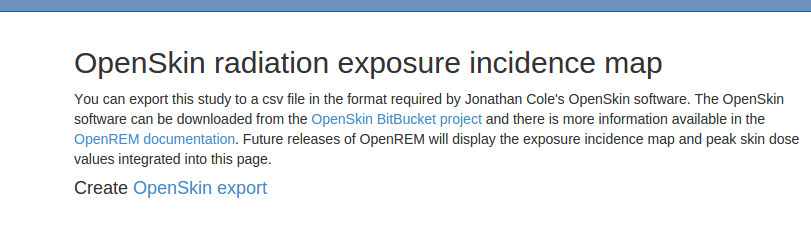
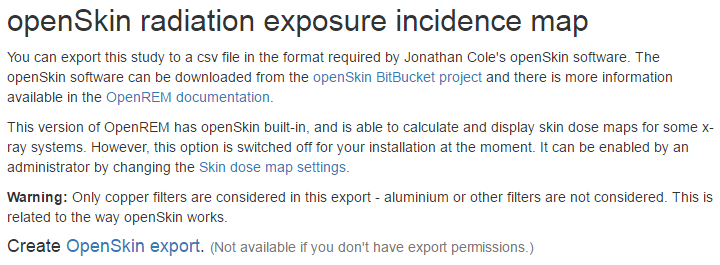
Updated skin dose map docs. References issue #61

diff --git a/docs/skindosemap.rst b/docs/skindosemap.rst
@@ -18,7 +18,9 @@ Functionality available
 * The skin dose map section can be displayed full-screen
 * The calculated peak skin dose, phantom dimensions and patient height and mass
   used for the calculations are shown in the top left hand corner of the skin
-  dose map.
+  dose map
+* If skin dose map display is disabled then fluoroscopy study data can be
+  exported in a format suitable for the stand-alone openSkin routines
 
 The phantom consists of a cuboid with one semi-cylinder on each side (see
 3D phantom section of `phantom design`_ on the openSkin website for details). A
@@ -136,6 +138,95 @@ When calculation on import is enabled:
 * Users viewing the details of a study won't have to wait for the skin dose map
   data to be calculated
 
+
+**************************
+Exporting data to openSkin
+**************************
+
+If skin dose maps are disabled you are presented with the option of exporting
+the study data as a csv file for use with a stand-alone installation of
+openSkin. Select the fluoroscopy study you wish to create the exposure
+incidence map for and go to the detail view. Then click on the link to create
+the OpenSkin export:
+
+.. figure:: img/OpenSkinExport.png
+   :figwidth: 50%
+   :align: right
+   :alt: Export from OpenREM to openSkin
+
+   Figure 7: Export from OpenREM to openSkin
+
+*************************
+Instructions for openSkin
+*************************
+
+Download the latest version as a zip file from
+http://bitbucket.org/openskin/openskin/downloads. At the time of release for
+OpenREM 0.7.0 the current openSkin beta was dated 14th September 2016. The
+application referred to here will only work on Windows.
+
+* Extract the contents of the zip file into a folder on your computer and run
+  the openSkin.exe executable
+* Choose a phantom type: 3D or flat. See `phantom design`_ for details
+* Select the source csv file - this should be the one exported from OpenREM
+* Select the output folder - this should already exist as it can't be created
+  in the dialogue
+* Wait! Depending on the number of events in the export and the power of your
+  machine, this can take a few minutes
+
+Two files will be produced - a textfile called ``skin_dose_results.txt`` and a
+small image called ``skin_dose_map.png``
+
+Results text file
+=================
+
+It should look something like this::
+
+    File created    : 04/21/15 17:42:45
+    Data file       : C:/Users/[...]/exports-2015-04-21-OpenSkinExport20150421-162805246134.csv
+    Phantom         : 90.0x70.0 3d phantom
+    Peak dose (Gy)  :                  0.50844405521
+    Cells > 3 Gy    :                              0
+    Cells > 5 Gy    :                              0
+    Cells > 10 Gy   :                              0
+
+The peak dose is the peak incident dose delivered to any one-cm-square area. If
+any of these 1 cm\ :sup:`2` areas (referred to as cells) are above 3 Gy, then
+the number of cells in this category, or the two higher dose categories, are
+listed in the table accordingly.
+
+Incidence map image file
+========================
+
+The image file will be a small 70x90 px PNG image if you used the 3D phantom,
+or 150 x 50 px PNG if you used the 2D phantom. With both, the head end of the
+table is on the left.
+
+The image is scaled so that black is 0 Gy and white is 10 Gy. For most studies,
+this results in an incidence map that is largely black. However, if you use
+`GIMP`_ or `ImageJ`_ or similar to increase the contrast, you will find that
+the required map is there.
+
+A native and 'colour equalised' version of the same export are shown below:
+
+.. raw:: html
+
+   <div class="clearfix">
+
+.. image:: img/skin_dose_map.png
+    :width: 210px
+    :align: left
+    :alt: OpenSkin incidence map, unscaled
+
+.. image:: img/skin_dose_map_scaled.png
+    :width: 210px
+    :align: right
+    :alt: OpenSkin incidence map, scaled
+
+.. raw:: html
+
+    </div>
+
 ***********
 Limitations
 ***********
@@ -153,3 +244,5 @@ want to do, please do go ahead and feed back your findings to Jonathan Cole at
 .. _`openSkin`: http://bitbucket.org/openskin/openskin
 .. _`jacole`: http://bitbucket.org/jacole/
 .. _`OpenREM Google Group`: http://groups.google.com/forum/#!forum/openrem
+.. _`GIMP`: http://www.gimp.org/
+.. _ImageJ: http://imagej.nih.gov/ij/download.html

diff --git a/docs/index.rst b/docs/index.rst
@@ -31,8 +31,8 @@ Contents:
     patientid
     i_navigate
     charts
+	skindosemap
     i_exporting
-    openskin
     i_administration
     troubleshooting
     code
